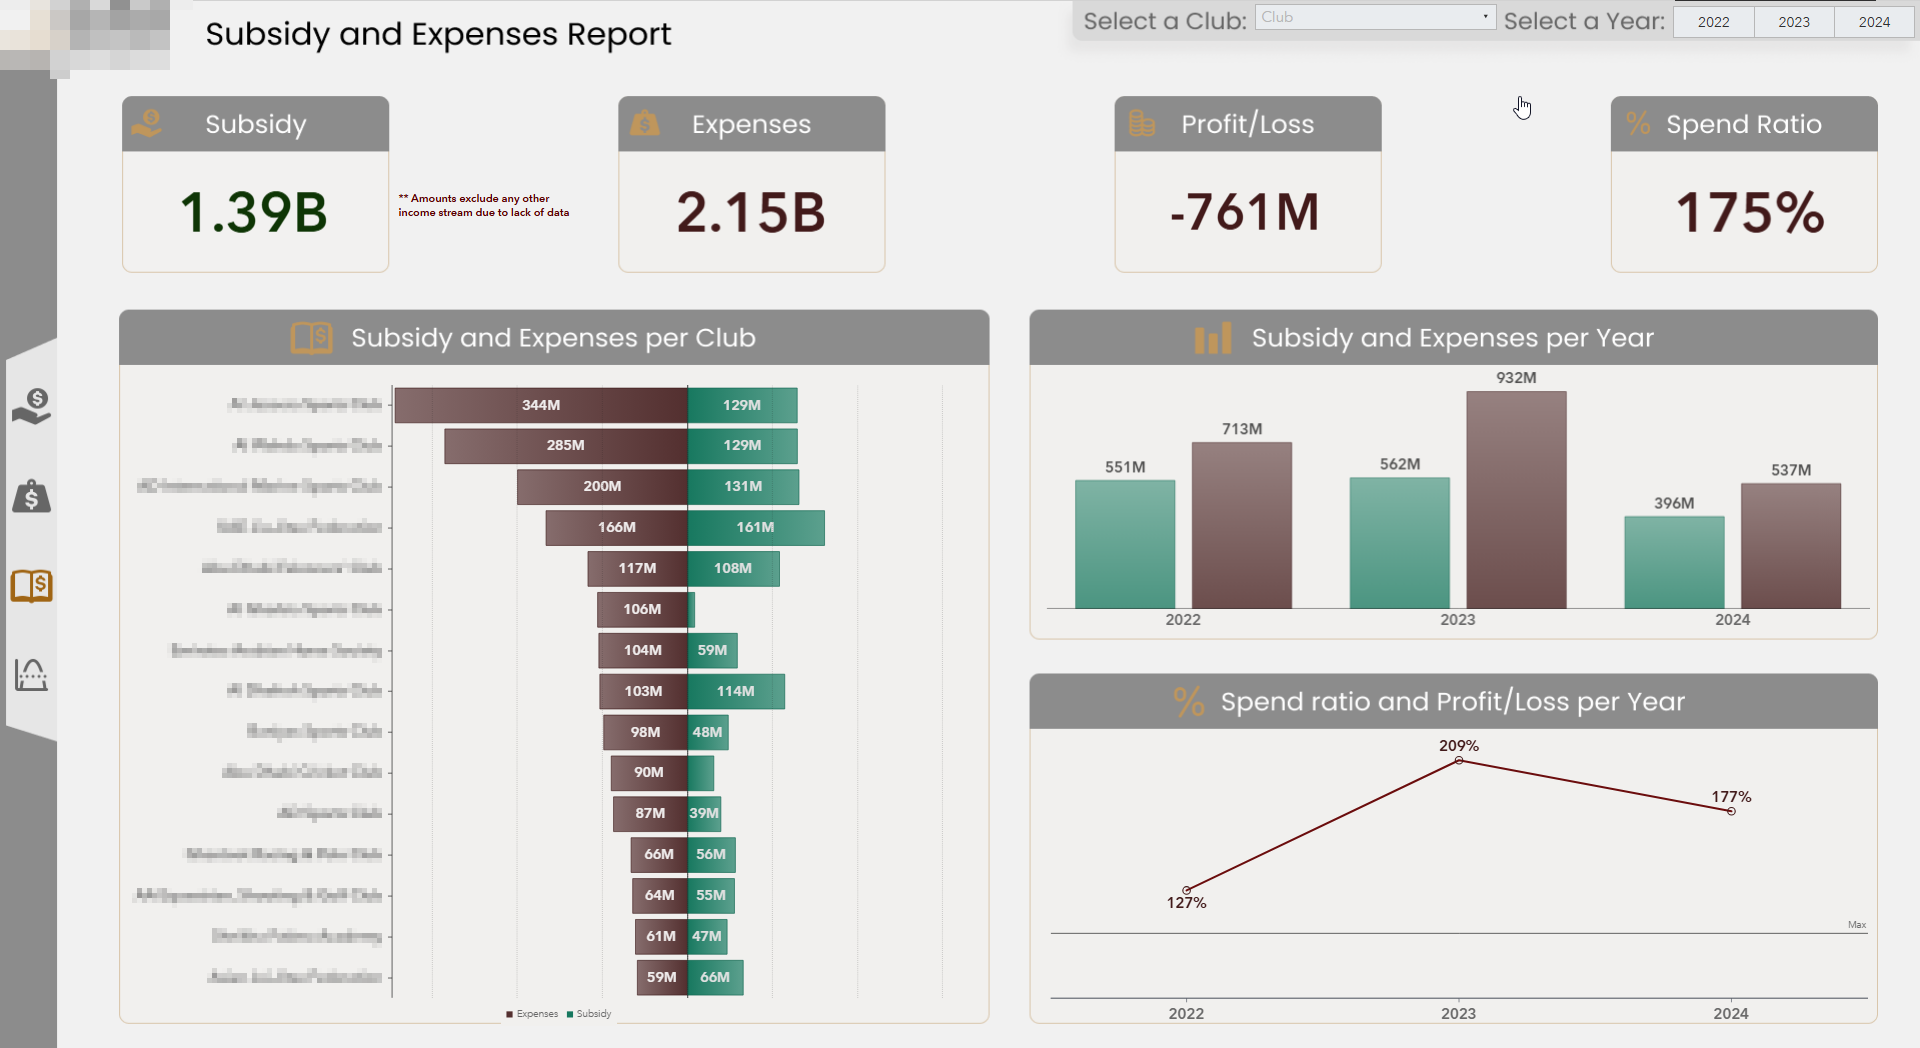
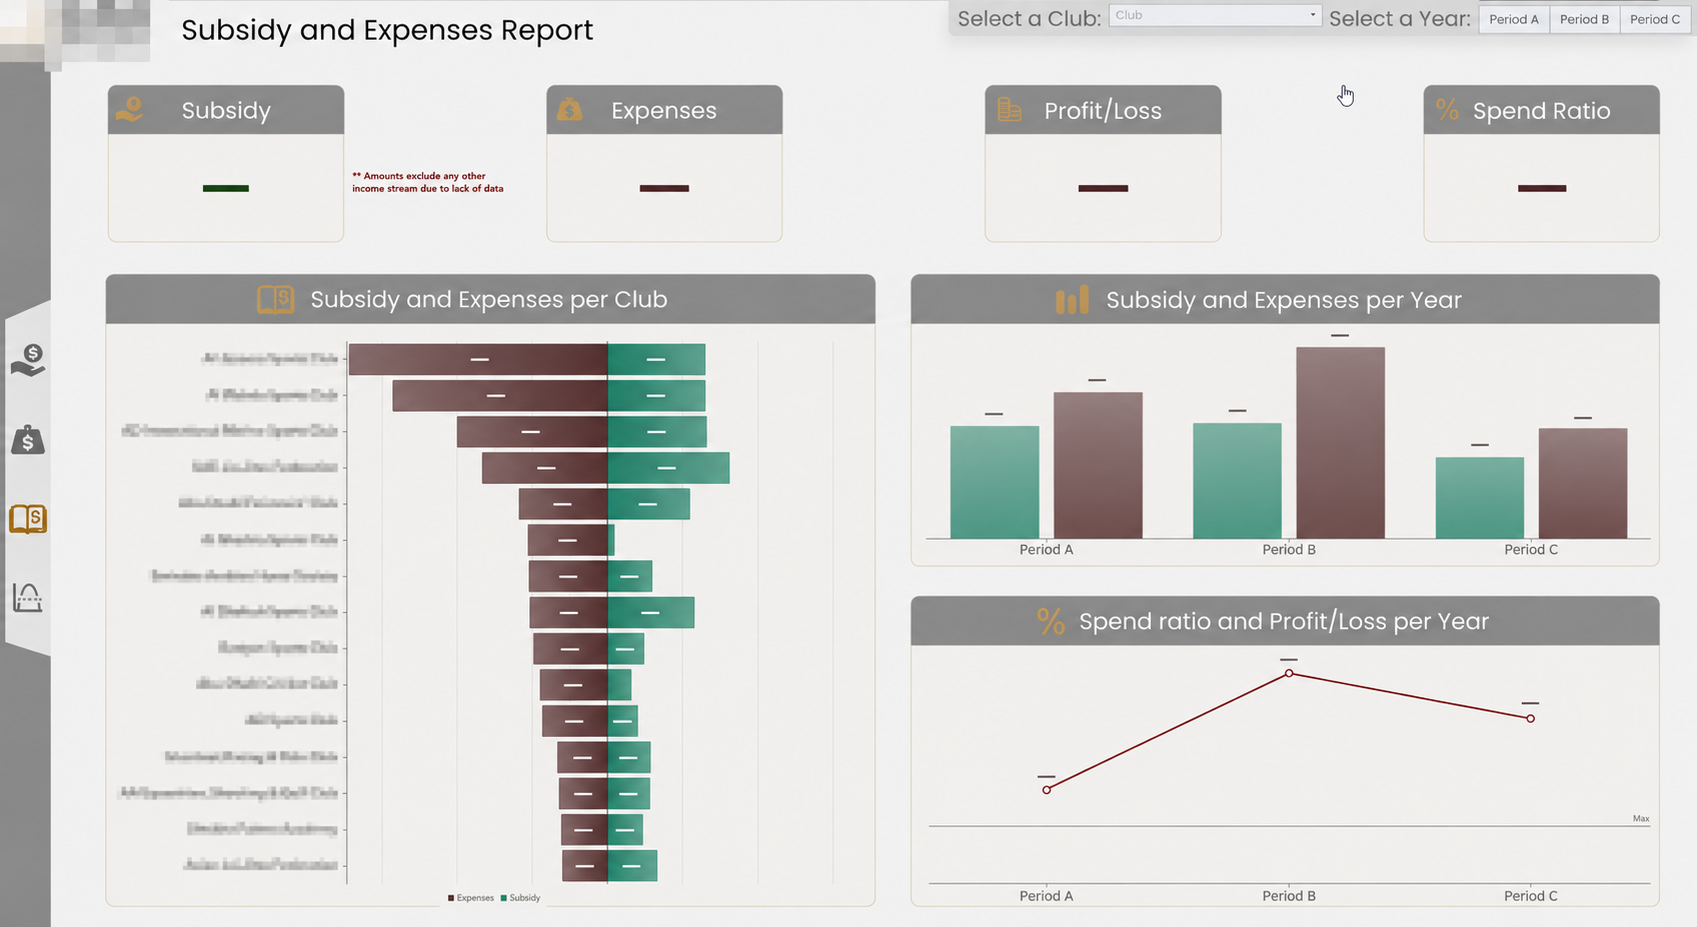
Refine portfolio privacy and brand visibility

diff --git a/app/data.ts b/app/data.ts
@@ -115,20 +115,13 @@ export type WorkSample = {
   image: string;
   alt: string;
   focus: string[];
+  privacyNote?: string;
 };
 
-// Add new public examples here. Keep client names and confidential figures out
-// of descriptions and imagery unless publication has been explicitly approved.
+// Add approved public examples here; the Work page and home-page preview are
+// generated from this catalogue. Keep client names and confidential figures
+// out of descriptions and source imagery unless publication is approved.
 export const workSamples: WorkSample[] = [
-  {
-    title: "Operational airline analytics",
-    category: "Business intelligence",
-    description:
-      "An executive-ready view of activity, cancellations, passengers, revenue and operational trends.",
-    image: "/work/airline-analytics.webp",
-    alt: "Operational airline performance dashboard",
-    focus: ["Executive KPIs", "Trend analysis", "Operational exceptions"],
-  },
   {
     title: "Interactive sales performance",
     category: "Insight",
@@ -144,8 +137,9 @@ export const workSamples: WorkSample[] = [
     description:
       "A concise management view that brings financial position, comparison and trend signals into one narrative.",
     image: "/work/executive-reporting.webp",
-    alt: "Anonymised executive financial dashboard",
+    alt: "Anonymised executive financial dashboard with numerical values removed",
     focus: ["Management narrative", "Exception focus", "Measure governance"],
+    privacyNote: "Illustrative view — numerical values intentionally removed.",
   },
   {
     title: "Portfolio performance monitoring",
@@ -164,6 +158,42 @@ export const workSamples: WorkSample[] = [
     image: "/work/data-model.webp",
     alt: "Relational data model for a project controls application",
     focus: ["Data modelling", "Reusable definitions", "Application foundation"],
+  },
+  {
+    title: "Operational analytics",
+    category: "Business intelligence",
+    description:
+      "An executive-ready operational view of activity, exceptions, volume and performance trends using illustrative data.",
+    image: "/work/airline-analytics.webp",
+    alt: "Operational performance dashboard using illustrative sample data",
+    focus: ["Executive KPIs", "Trend analysis", "Operational exceptions"],
+  },
+];
+
+export const portfolioPipeline = [
+  {
+    title: "Data products & applications",
+    text: "Purpose-built portals, internal applications and workflow products that turn trusted data into day-to-day action.",
+  },
+  {
+    title: "Data quality tools & reports",
+    text: "Rule management, scorecards, exception reporting, issue workflows and remediation views for critical data.",
+  },
+  {
+    title: "Governance artefacts",
+    text: "Operating models, policies, standards, control catalogues, glossaries and decision forums designed for use.",
+  },
+  {
+    title: "Ownership & stewardship",
+    text: "RACI matrices, data-owner and steward structures, accountability maps and practical role descriptions.",
+  },
+  {
+    title: "Governed AI & agents",
+    text: "Controlled AI and data-agent prototypes with approved tools, validation and human oversight.",
+  },
+  {
+    title: "Process redesign & automation",
+    text: "Current-state maps, redesigned workflows, preventive controls, digitised handoffs and targeted automation.",
   },
 ];
 

diff --git a/app/globals.css b/app/globals.css
@@ -248,13 +248,13 @@ h3 { font-size: 1.35rem; font-weight: 680; }
 
 .header-inner {
   display: grid;
-  min-height: 82px;
+  min-height: 92px;
   align-items: center;
-  grid-template-columns: 220px 1fr auto;
+  grid-template-columns: 265px 1fr auto;
   gap: 28px;
 }
 
-.brand-link { display: inline-flex; align-items: center; width: 205px; }
+.brand-link { display: inline-flex; align-items: center; width: 250px; }
 .brand-logo { width: 100%; height: auto; }
 
 .desktop-nav {
@@ -1061,9 +1061,17 @@ h3 { font-size: 1.35rem; font-weight: 680; }
 .work-card-image img { width: 100%; height: 100%; object-fit: contain; background: #eef2f5; }
 .work-card-content h2 { margin-bottom: 24px; font-size: clamp(2rem, 4vw, 3.6rem); }
 .work-card-content > p:not(.eyebrow) { margin-bottom: 28px; color: var(--slate-dark); font-size: 1rem; }
+.work-card-content .privacy-note {
+  margin-top: -12px;
+  margin-bottom: 24px;
+  color: var(--teal-dark);
+  font-size: 0.76rem;
+  font-weight: 700;
+  letter-spacing: 0.035em;
+}
 .focus-list { display: flex; flex-wrap: wrap; gap: 8px; }
 .library-section { background: var(--warm-white); }
-.upcoming-grid { grid-template-columns: repeat(4, 1fr); }
+.upcoming-grid { grid-template-columns: repeat(3, 1fr); }
 .upcoming-grid article { min-height: 320px; background: rgba(255, 255, 255, 0.55); }
 .upcoming-grid h3 { font-size: 1.25rem; }
 
@@ -1346,7 +1354,7 @@ h3 { font-size: 1.35rem; font-weight: 680; }
 }
 
 .footer-grid { display: grid; grid-template-columns: 1.5fr 0.6fr 0.9fr; gap: clamp(50px, 8vw, 100px); padding-bottom: 58px; }
-.footer-brand img { width: 245px; margin-bottom: 24px; }
+.footer-brand img { width: 270px; margin-bottom: 24px; }
 .footer-brand p, .footer-copy { max-width: 440px; margin-bottom: 0; color: #aebdcc; font-size: 0.9rem; }
 
 .footer-label {
@@ -1361,6 +1369,8 @@ h3 { font-size: 1.35rem; font-weight: 680; }
 .footer-links { display: grid; gap: 9px; }
 .footer-links a { color: #c2ced8; font-size: 0.88rem; }
 .footer-links a:hover { color: #67d9d7; }
+.footer-links .social-link { display: flex; align-items: center; gap: 8px; }
+.footer-links .social-link svg { width: 16px; height: 16px; flex: 0 0 auto; }
 .footer-copy { margin-bottom: 22px; }
 
 .footer-bottom {
@@ -1375,8 +1385,8 @@ h3 { font-size: 1.35rem; font-weight: 680; }
 .footer-bottom p { margin-bottom: 0; color: #8797a7; font-size: 0.72rem; }
 
 @media (max-width: 1050px) {
-  .header-inner { grid-template-columns: 190px 1fr auto; }
-  .brand-link { width: 185px; }
+  .header-inner { grid-template-columns: 225px 1fr auto; }
+  .brand-link { width: 215px; }
   .desktop-nav { gap: 20px; }
   .hero-grid { grid-template-columns: minmax(0, 1fr) 390px; gap: 44px; }
   .hero-visual { min-height: 460px; padding: 28px; }
@@ -1394,8 +1404,8 @@ h3 { font-size: 1.35rem; font-weight: 680; }
 @media (max-width: 820px) {
   .container { width: min(calc(100% - 36px), var(--container)); }
   .section { padding: 82px 0; }
-  .header-inner { min-height: 74px; grid-template-columns: 1fr auto; }
-  .brand-link { width: 175px; }
+  .header-inner { min-height: 78px; grid-template-columns: 1fr auto; }
+  .brand-link { width: 195px; }
   .desktop-nav, .header-cta { display: none; }
   .mobile-menu { display: block; }
   .hero { padding-top: 72px; }

diff --git a/app/work/page.tsx b/app/work/page.tsx
@@ -1,7 +1,7 @@
 import type { Metadata } from "next";
 import Image from "next/image";
 import { CallToAction, PageHero, SectionHeading } from "../components";
-import { workSamples } from "../data";
+import { portfolioPipeline, workSamples } from "../data";
 
 export const metadata: Metadata = {
   title: "Representative Work",
@@ -9,25 +9,6 @@ export const metadata: Metadata = {
     "Representative delivery artifacts across analytics, management reporting, monitoring and data foundations.",
   alternates: { canonical: "/work" },
 };
-
-const upcoming = [
-  {
-    title: "Governed AI & agents",
-    text: "Controlled AI and data-agent prototypes with approved tools, validation and human oversight.",
-  },
-  {
-    title: "Process redesign",
-    text: "Current-state maps, redesigned workflows, preventive controls and digitised handoffs.",
-  },
-  {
-    title: "Assessment readouts",
-    text: "Maturity heatmaps, root-cause patterns, opportunity backlogs and value-led roadmaps.",
-  },
-  {
-    title: "Governance & quality",
-    text: "Ownership models, glossaries, quality rules, control catalogues, scorecards and issue workflows.",
-  },
-];
 
 export default function WorkPage() {
   return (
@@ -59,6 +40,9 @@ export default function WorkPage() {
                 <p className="eyebrow">{sample.category}</p>
                 <h2>{sample.title}</h2>
                 <p>{sample.description}</p>
+                {sample.privacyNote ? (
+                  <p className="privacy-note">{sample.privacyNote}</p>
+                ) : null}
                 <div className="focus-list">
                   {sample.focus.map((focus) => <span key={focus}>{focus}</span>)}
                 </div>
@@ -73,10 +57,10 @@ export default function WorkPage() {
           <SectionHeading
             eyebrow="A growing capability library"
             title="Structured to expand as more work is approved for publication."
-            description="The portfolio is built from a simple content catalogue, making it straightforward to add new imagery, categories and delivery notes without redesigning the page."
+            description="The portfolio is generated from a reusable content catalogue, so approved portals, applications, tools, reports and governance artefacts can be added without redesigning the page."
           />
           <div className="upcoming-grid">
-            {upcoming.map((item, index) => (
+            {portfolioPipeline.map((item, index) => (
               <article key={item.title}>
                 <span>0{index + 1}</span>
                 <h3>{item.title}</h3>

diff --git a/app/components.tsx b/app/components.tsx
@@ -1,6 +1,6 @@
 import Link from "next/link";
 import Image from "next/image";
-import { FaPhone, FaWhatsapp } from "react-icons/fa6";
+import { FaLinkedin, FaPhone, FaWhatsapp } from "react-icons/fa6";
 import { servicePillars } from "./data";
 
 const navItems = [
@@ -24,8 +24,8 @@ export function SiteHeader() {
             className="brand-logo"
             src="/brand/logo-horizontal.svg"
             alt="DataPillars — Turning Data Into Opportunity"
-            width={245}
-            height={66}
+            width={300}
+            height={81}
             priority
           />
         </Link>
@@ -63,8 +63,8 @@ export function SiteFooter() {
           <Image
             src="/brand/logo-dark.svg"
             alt="DataPillars — Turning Data Into Opportunity"
-            width={245}
-            height={66}
+            width={300}
+            height={81}
           />
           <p>
             Trusted data foundations, better decisions, smarter processes and
@@ -78,8 +78,10 @@ export function SiteFooter() {
             <Link href="/assessment">Assessment</Link>
             <Link href="/work">Our work</Link>
             <Link href="/about">About</Link>
-            <a href={companyLinkedIn} target="_blank" rel="noreferrer">
-              Company LinkedIn ↗
+            <a className="social-link" href={companyLinkedIn} target="_blank" rel="noreferrer">
+              <FaLinkedin aria-hidden="true" />
+              <span>Company LinkedIn</span>
+              <span aria-hidden="true">↗</span>
             </a>
           </div>
         </div>

diff --git a/Ahead Plan/Portfolio-Content-Guide.md b/Ahead Plan/Portfolio-Content-Guide.md
@@ -1,0 +1,71 @@
+# DataPillars Portfolio Content Guide
+
+The website's work library is intentionally catalogue-driven. A new approved example requires one optimised image and one content entry; the page layout, responsive behaviour and home-page previews do not need to be redesigned.
+
+## Planned content families
+
+- Data products: portals, internal applications and workflow tools.
+- Data quality: rules, profiling, monitoring, issue workflows, scorecards and reports.
+- Governance: operating models, policies, standards, glossaries and control catalogues.
+- Accountability: RACI matrices, ownership maps, data-owner roles and steward structures.
+- Assessments: maturity heatmaps, findings, opportunity backlogs and roadmaps.
+- Analytics: executive reporting, operational monitoring and decision-support products.
+- AI and automation: governed agents, approved use cases and human-control patterns.
+
+## What to collect for each example
+
+1. **Public title** — describe the capability, not the client's identity.
+2. **Category** — use one stable category from the list above.
+3. **Business description** — one or two sentences describing the decision or process improved.
+4. **Image** — a sanitised screenshot with no client name, credentials, personal data or recoverable confidential figures.
+5. **Alternative text** — describe what the image communicates for accessibility and search engines.
+6. **Three focus tags** — for example, `Exception monitoring`, `Ownership workflow`, `Executive KPIs`.
+7. **Publication approval** — named approver and date retained in the internal project record.
+8. **Optional privacy note** — state when values or identifiers were intentionally removed.
+
+## Image preparation standard
+
+- Use PNG for detailed interface captures while editing; publish a compact WebP copy where possible.
+- Target approximately 1,200 pixels wide for website display.
+- Preserve the original aspect ratio.
+- Remove or irreversibly obscure names, email addresses, IDs, credentials and sensitive values in the source asset itself.
+- Do not rely on CSS blur: visitors can still download the original file.
+- Check the final public asset at full size before approval.
+- Use a clear lowercase filename such as `data-quality-scorecard.webp`.
+
+## Adding an approved item
+
+1. Place the sanitised image in `public/work/`.
+2. Open `app/data.ts`.
+3. Add one object to the `workSamples` array with `title`, `category`, `description`, `image`, `alt` and three `focus` items.
+4. Add `privacyNote` when values or identities were removed.
+5. Remove the corresponding placeholder from `portfolioPipeline` when the real example is published.
+6. Build and inspect the Work page on desktop and mobile.
+7. Publish the validated release.
+
+## Example catalogue entry
+
+```ts
+{
+  title: "Data quality exception management",
+  category: "Data quality",
+  description:
+    "A controlled workflow connecting critical data rules, exceptions, ownership and remediation progress.",
+  image: "/work/data-quality-exceptions.webp",
+  alt: "Data quality exception dashboard showing rules, status and accountable owners",
+  focus: ["Quality rules", "Issue workflow", "Accountability"],
+  privacyNote: "Illustrative view — identifiers and values intentionally removed.",
+}
+```
+
+## Publication gate
+
+Before a client-derived artefact goes live, confirm:
+
+- contractual permission permits publication;
+- the client cannot be inferred from logos, colours, labels or unusual structures;
+- numerical and personal data are not recoverable;
+- the screenshot contains no hidden browser tabs, URLs, tokens or metadata;
+- the description makes no unsupported performance claim;
+- at least one founder has reviewed the final public page.
+

diff --git a/Ahead Plan/README.md b/Ahead Plan/README.md
@@ -6,6 +6,7 @@ This folder converts the website launch into two controlled follow-on workstream
 
 1. [SEO and Growth Plan](./SEO-and-Growth-Plan.md) — technical readiness, search-console setup, content, authority building, conversion measurement and a 90-day execution sequence.
 2. [Professional Email Setup Plan](./Professional-Email-Setup-Plan.md) — mailbox provider choice, Tasjeel DNS changes, two founder mailboxes, shared addresses, email authentication, Resend separation and security checks.
+3. [Portfolio Content Guide](./Portfolio-Content-Guide.md) — a repeatable publication standard for portals, applications, data-quality tools, governance artefacts and future delivery examples.
 
 ## Recommended order
 
